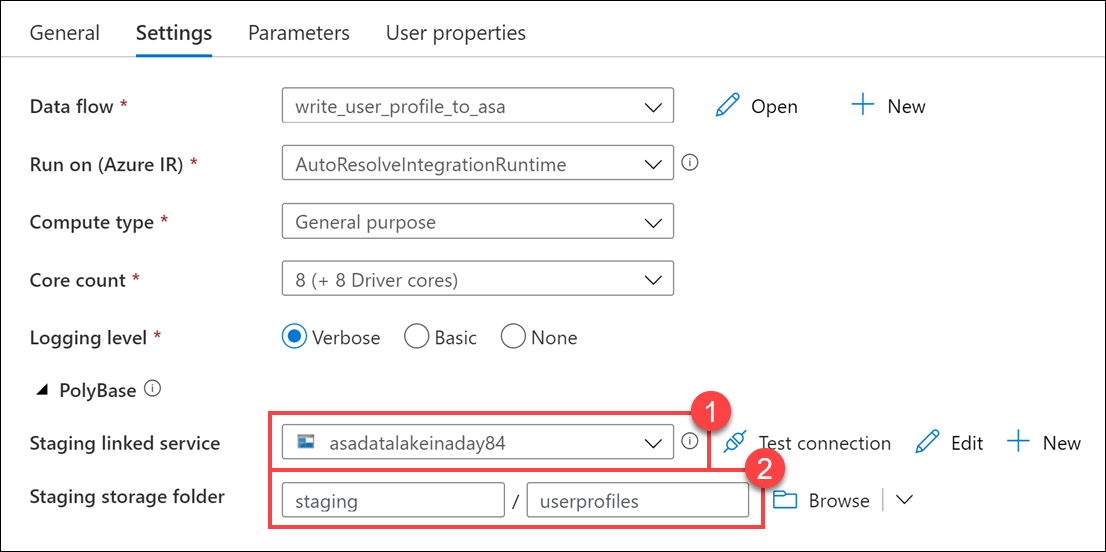
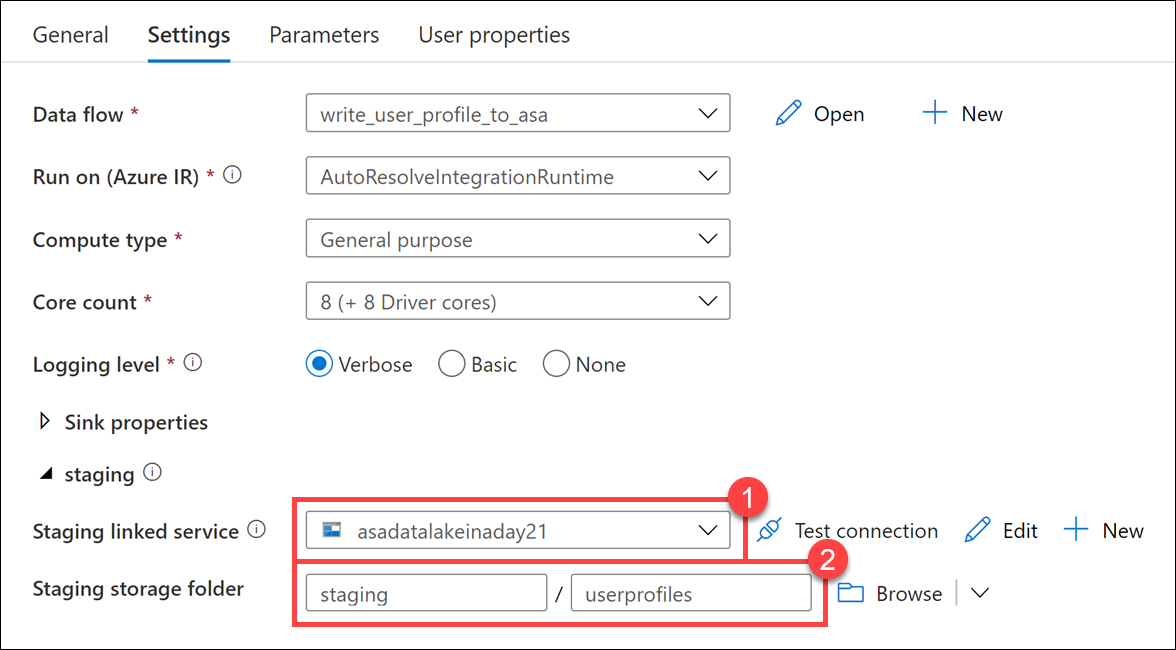
Closes #23

diff --git a/demos/module4/README.md b/demos/module4/README.md
@@ -718,7 +718,7 @@ Let's start by executing our new Mapping Data Flow. In order to run the new data
 
     ![The settings are configured as described.](media/data-flow-activity-settings1.png "Settings")
 
-9. Expand **PolyBase** and configure the following:
+9. Expand **staging** and configure the following:
 
     - **Staging linked service**: Select the `asadatalakeSUFFIX` linked service.
     - **Staging storage folder**: Enter `staging/userprofiles`. The `userprofiles` folder will be automatically created for you during the first pipeline run.
